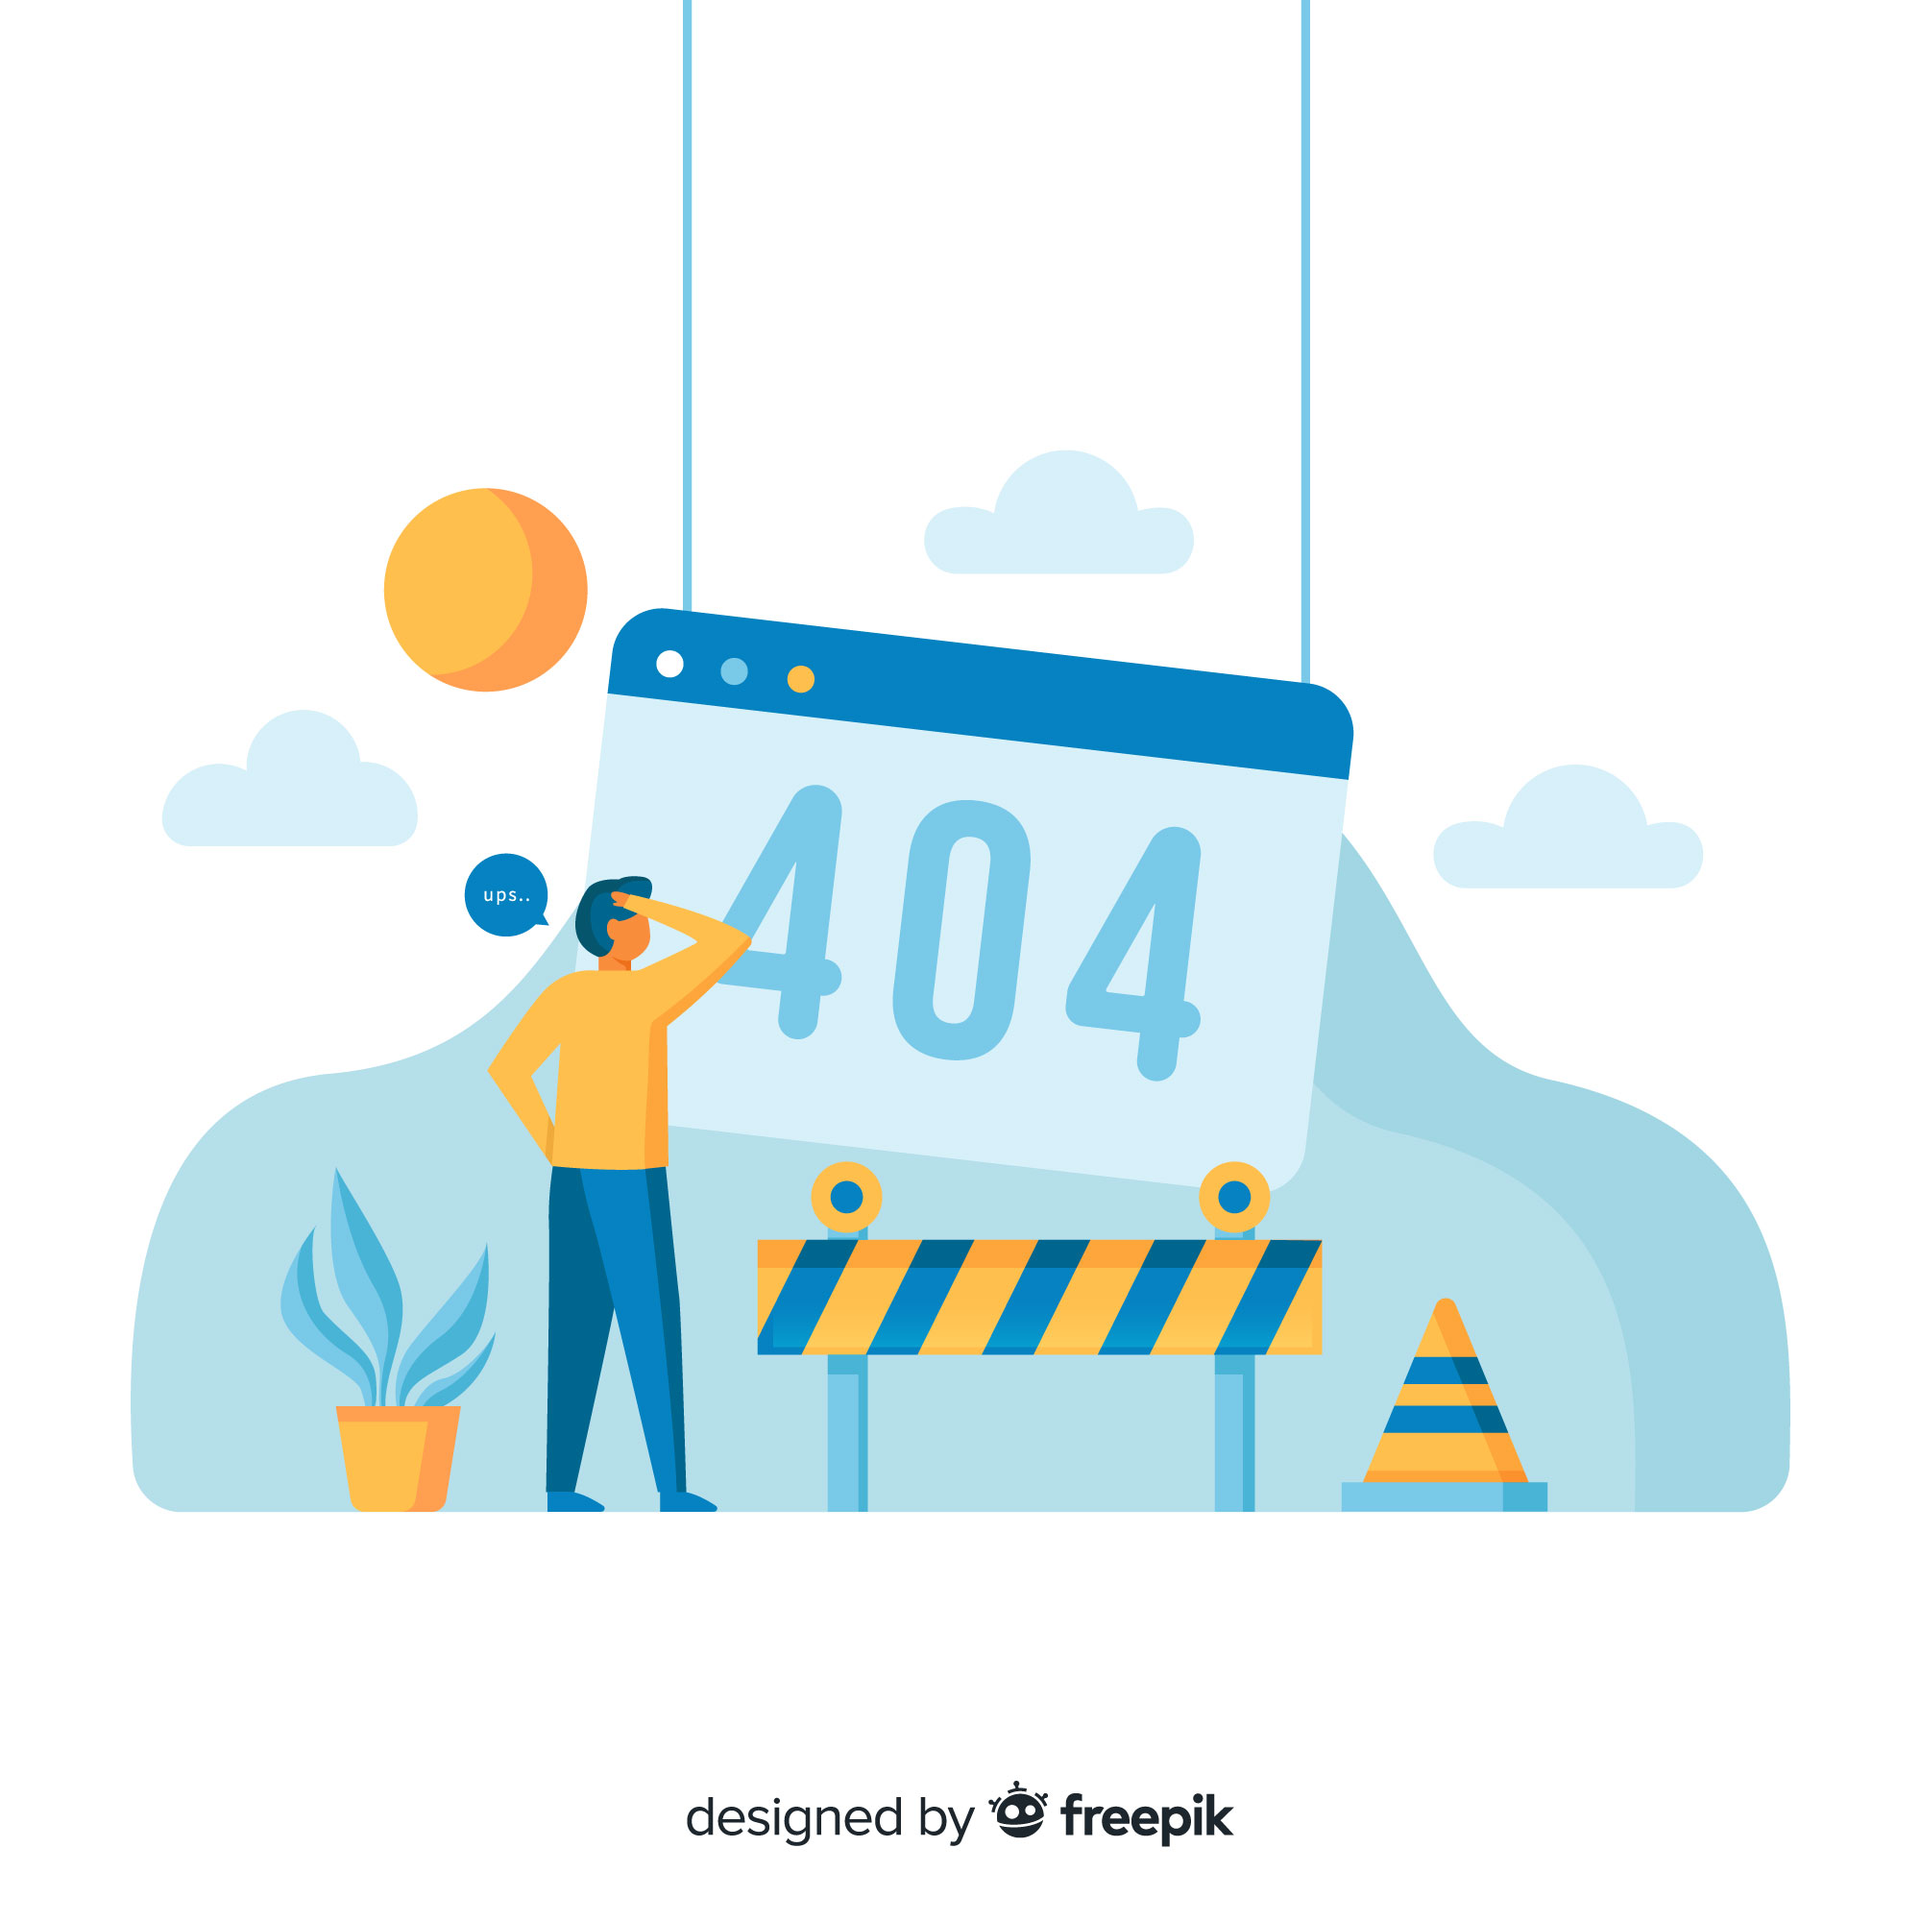
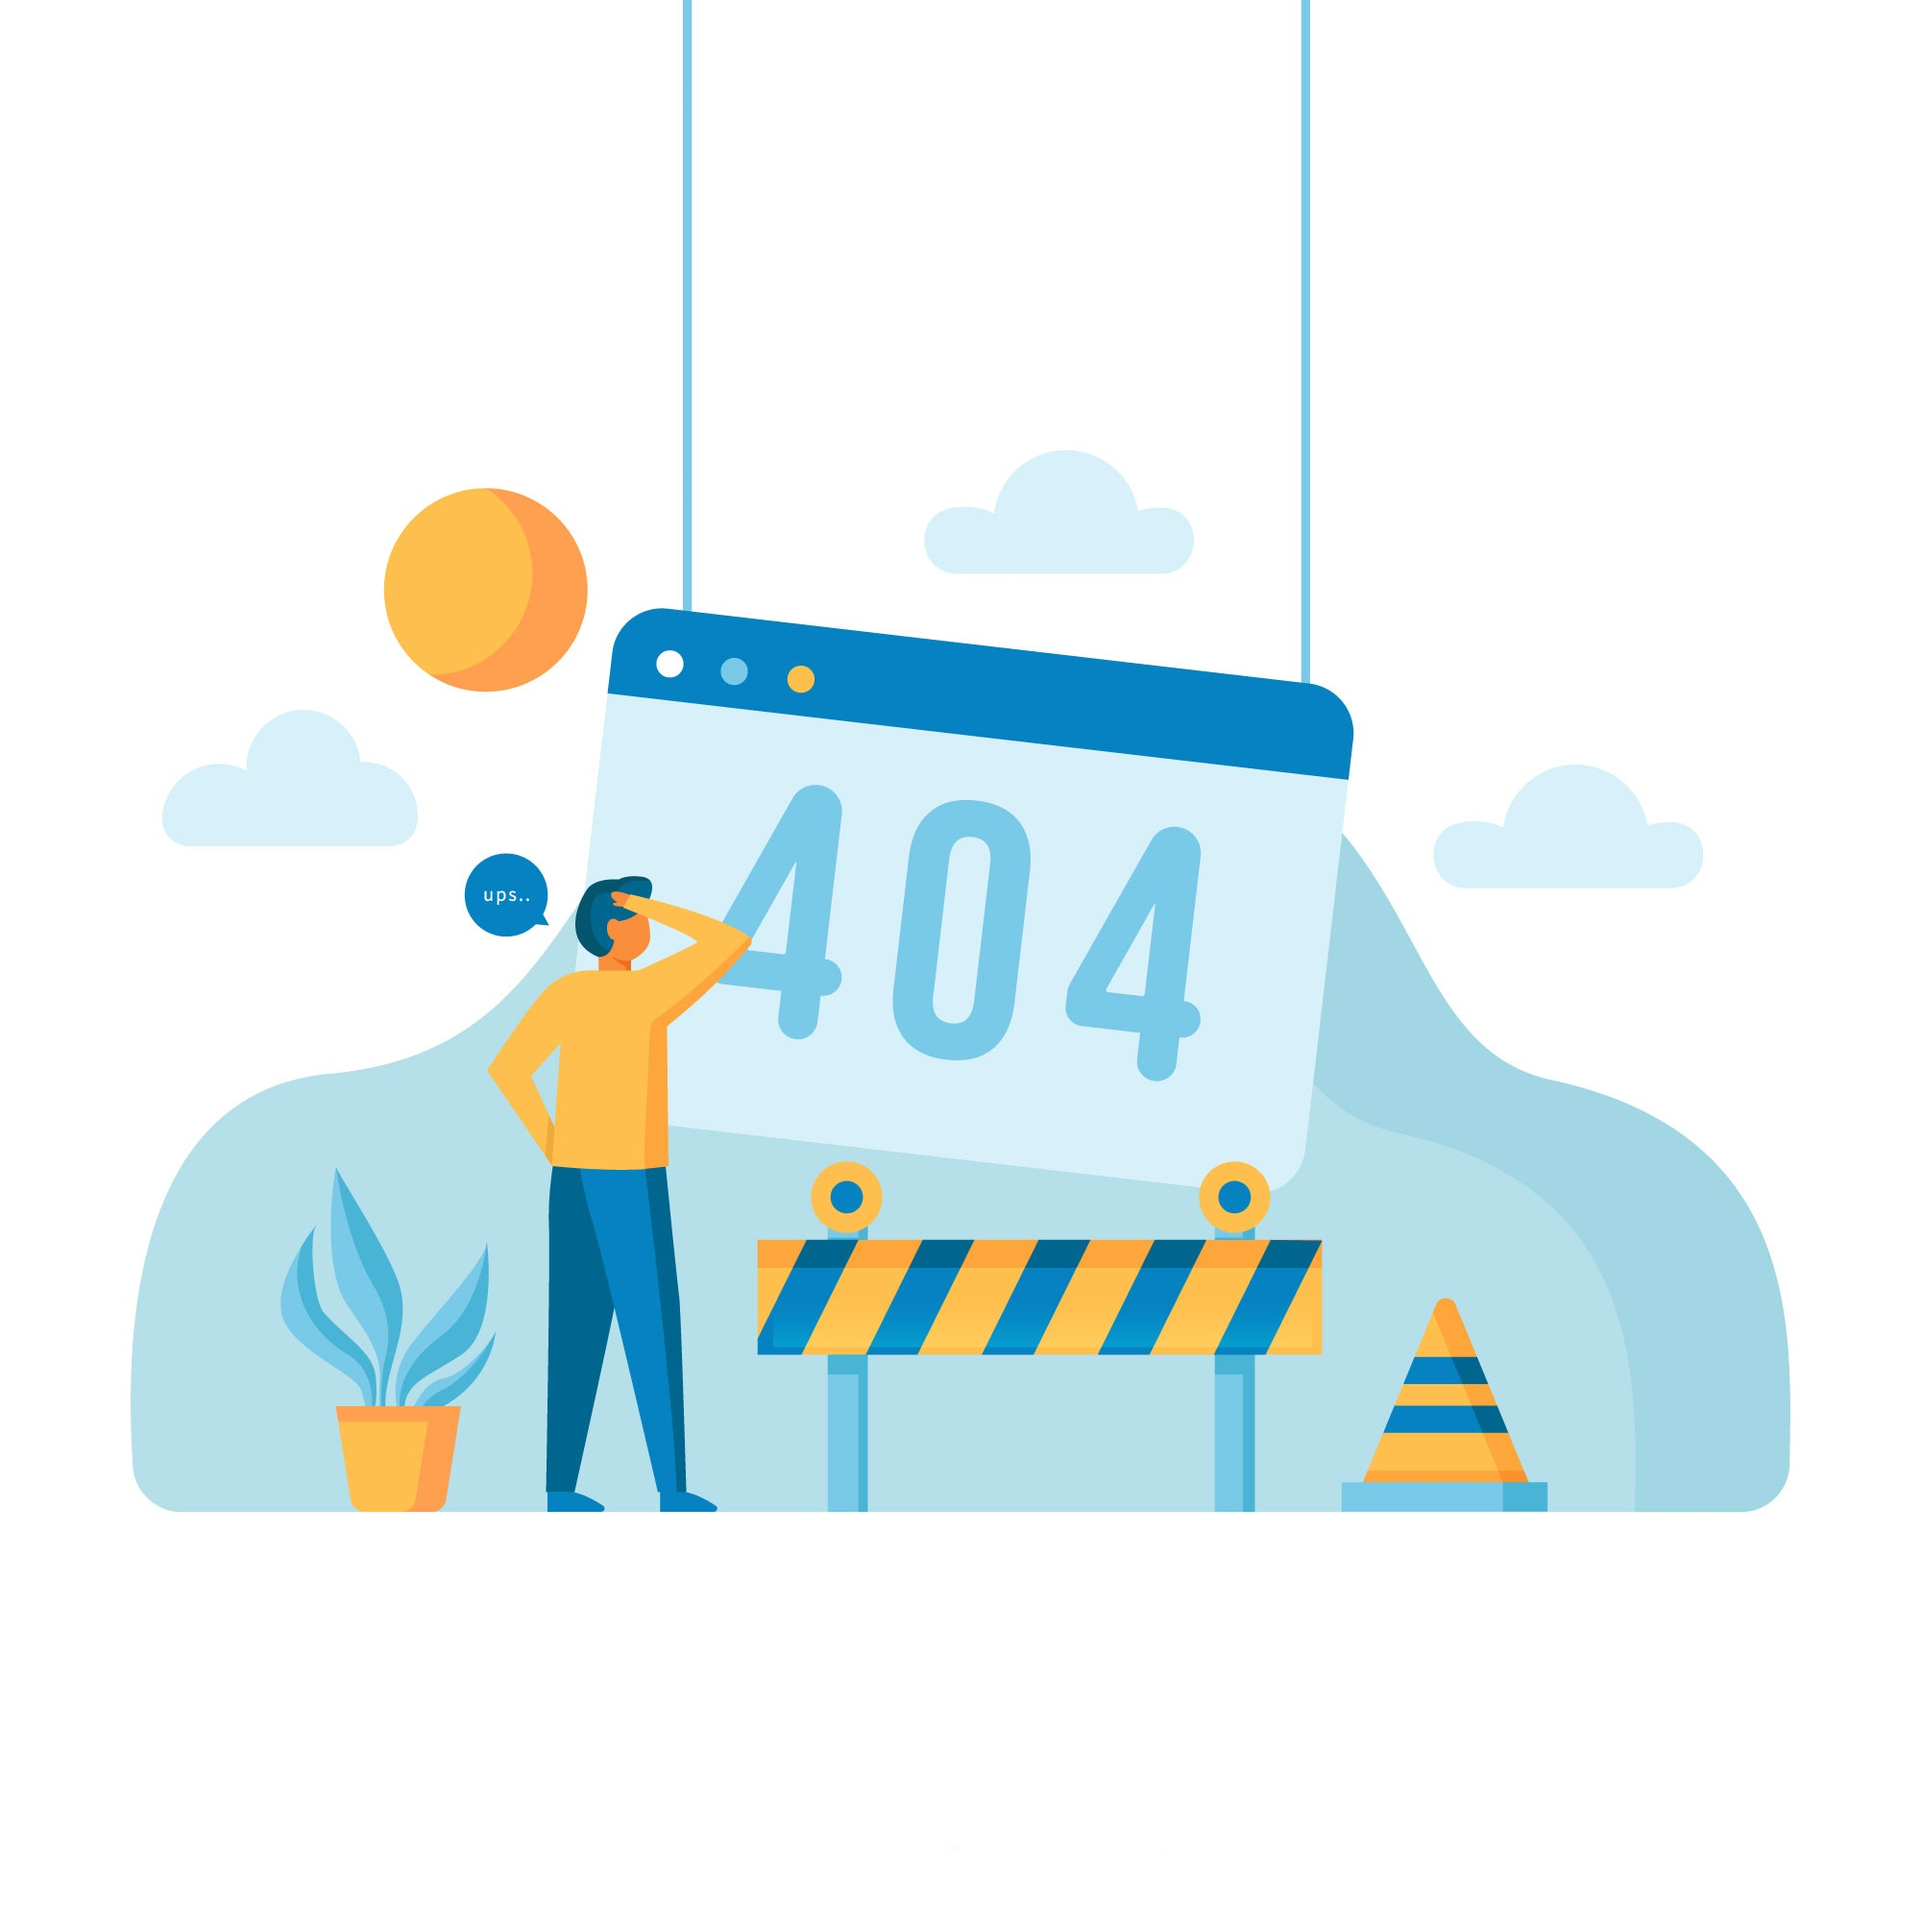
fixed bugs

Changed region(s): [[0.341, 0.93, 0.651, 0.961], [0.62, 0.62, 0.651, 0.651]]

diff --git a/templates/errorpage.html b/templates/errorpage.html
@@ -22,7 +22,7 @@
 <!--Navbar-->
 <nav class="navbar navbar-expand-lg navbar-light white sticky-top">
     <!-- Navbar brand -->
-    <a class="navbar-brand" href="/"><i class="fab fa-youtube"> Malicious Url Analysis</i></a>
+    <a class="navbar-brand" href="/"><i class="fad fa-sack-dollar"  style="margin-right:1 rem;"></i>Malicious Url Analysis</a>
 
     <!-- Collapse button -->
     <button class="navbar-toggler" type="button" data-toggle="collapse" data-target="#basicExampleNav"
@@ -55,9 +55,10 @@
 <div class="container-fluid" style="margin-top: 1rem;">
     <div class="row">
         <div class="col-md-6" style="margin: 0 auto;">
-            <img src="/static/error.jpg" class="img-fluid">     
+            <img src="/static/notfound.jpg" class="img-fluid">     
         </div>
     </div>
+</br></br>
     <div class="row" style="margin-bottom: 1rem;">
         <a href="/" class="btn btn-primary" style="margin: 0 auto;display: block;">Home</a>
     </div>
@@ -65,10 +66,9 @@
 
     <!-- Copyright -->
     <div class="footer-copyright text-center py-3">
-        <a href="https://mdbootstrap.com/" style="color: white;font-weight: bold;">MD Bootstrap</a>
+        <a href="https://mdbootstrap.com/" style="color: white;font-weight: bold;"></a>
         <br />
-        <a href="http://www.freepik.com" style="color: white;font-weight: bold;">Designed by
-            pikisuperstar / Freepik</a>
+        <a href="http://www.freepik.com" style="color: white;font-weight: bold;"></a>
     </div>
     <!-- Copyright -->
 

diff --git a/templates/about.html b/templates/about.html
@@ -143,10 +143,9 @@
 
         <!-- Copyright -->
         <div class="footer-copyright text-center py-3">
-            <a href="https://mdbootstrap.com/" style="color: white;font-weight: bold;">MD Bootstrap</a>
+            <a href="https://mdbootstrap.com/" style="color: white;font-weight: bold;"></a>
             <br />
-            <a href="http://www.freepik.com" style="color: white;font-weight: bold;">Designed by
-                pikisuperstar / Freepik</a>
+            <a href="http://www.freepik.com" style="color: white;font-weight: bold;"></a>
         </div>
         <!-- Copyright -->
 

diff --git a/templates/home.html b/templates/home.html
@@ -144,10 +144,9 @@
 
         <!-- Copyright -->
         <div class="footer-copyright text-center py-3">
-            <a href="https://mdbootstrap.com/" style="color: white;font-weight: bold;">MD Bootstrap</a>
+            <a href="https://mdbootstrap.com/" style="color: white;font-weight: bold;"></a>
             <br />
-            <a href="http://www.freepik.com" style="color: white;font-weight: bold;">Designed by
-                pikisuperstar / Freepik</a>
+            <a href="http://www.freepik.com" style="color: white;font-weight: bold;"></a>
         </div>
         <!-- Copyright -->
 

diff --git a/templates/result.html b/templates/result.html
@@ -172,10 +172,9 @@
 
         <!-- Copyright -->
         <div class="footer-copyright text-center py-3">
-            <a href="https://mdbootstrap.com/" style="color: white;font-weight: bold;">MD Bootstrap</a>
+            <a href="https://mdbootstrap.com/" style="color: white;font-weight: bold;"></a>
             <br />
-            <a href="http://www.freepik.com" style="color: white;font-weight: bold;">Designed by
-                pikisuperstar / Freepik</a>
+            <a href="http://www.freepik.com" style="color: white;font-weight: bold;"></a>
         </div>
         <!-- Copyright -->
 

diff --git a/aut2/views.py b/aut2/views.py
@@ -44,111 +44,114 @@ def home(request):
 def result(request):
     #nm=request.GET['url']
     text=request.GET['url']
-    if len(text)<=9:
-        return render(request,'errorpage.html')
-    aburl=-1
-    digits="0123456789"
-    if text[8] in digits:
-        oneval=-1
-    else:
-        oneval=1    
-    if len(text)>170:
-        secval=-1
-    else:
-        secval=1  
-    if "@" in text:
-        thirdval=-1
-    else:
-        thirdval=1    
-    k=text.count("//")          
-    if k>1:
-        fourthval=-1
-    else:
-        fourthval=1
-        
-    if "-" in text:
-        fifthval=-1
-    else:
-        fifthval=1         
-    if "https" in text:
-        sixthval=1
-    else:
-        sixthval=-1
-    temp=text
-    temp=temp[6:]
-    k1=temp.count("https")
+    if text.startswith('https://') or text.startswith('http://'):
 
-    if k1 >=1:
-        seventhval=-1
-    else:
-        seventhval=1
-    if "about:blank" in text:
-        eighthval=-1
-    else:
-        eighthval=1
-    if "mail()" or "mailto:" in text:
-        ninthval=-1
-    else:
-        ninthval=1
-    re=text.count("//")          
-    if re>3:
-        tenthval=-1
-    else:
-        tenthval=1    
-
-    import whois
-    from datetime import datetime
-
-    url=text
-
-    try:
-        res=whois.whois(url)
-        try:
-            a=res['creation_date'][0]
-            b=datetime.now()
-            c=b-a
-            d=c.days
-        except:
-            a=res['creation_date']
-            b=datetime.now()
-            c=b-a
-            d=c.days
-        if d>365:
-            eleventhval=1
+        if len(text)<=9:
+            return render(request,'errorpage.html')
+        aburl=-1
+        digits="0123456789"
+        if text[8] in digits:
+            oneval=-1
         else:
-            eleventhval=-1
-    except:
-        aburl=1
-        eleventhval=-1   
+            oneval=1    
+        if len(text)>170:
+            secval=-1
+        else:
+            secval=1  
+        if "@" in text:
+            thirdval=-1
+        else:
+            thirdval=1    
+        k=text.count("//")          
+        if k>1:
+            fourthval=-1
+        else:
+            fourthval=1
+            
+        if "-" in text:
+            fifthval=-1
+        else:
+            fifthval=1         
+        if "https" in text:
+            sixthval=1
+        else:
+            sixthval=-1
+        temp=text
+        temp=temp[6:]
+        k1=temp.count("https")
 
-    if aburl==1:
-        twelthval=-1
+        if k1 >=1:
+            seventhval=-1
+        else:
+            seventhval=1
+        if "about:blank" in text:
+            eighthval=-1
+        else:
+            eighthval=1
+        if "mail()" or "mailto:" in text:
+            ninthval=-1
+        else:
+            ninthval=1
+        re=text.count("//")          
+        if re>3:
+            tenthval=-1
+        else:
+            tenthval=1    
+
+        import whois
+        from datetime import datetime
+
+        url=text
+
+        try:
+            res=whois.whois(url)
+            try:
+                a=res['creation_date'][0]
+                b=datetime.now()
+                c=b-a
+                d=c.days
+            except:
+                a=res['creation_date']
+                b=datetime.now()
+                c=b-a
+                d=c.days
+            if d>365:
+                eleventhval=1
+            else:
+                eleventhval=-1
+        except:
+            aburl=1
+            eleventhval=-1   
+
+        if aburl==1:
+            twelthval=-1
+        else:
+            twelthval=1    
+
+
+
+
+        filename = 'phish_trainedv0.sav'
+
+        loaded_model = joblib.load(filename)
+
+        arg=loaded_model.predict(([[oneval,secval,thirdval,fourthval,fifthval,sixthval,seventhval,eighthval,ninthval,tenthval,eleventhval,twelthval]]))
+        print (arg[0])
+        if arg[0]==1:
+            te="Legitimate"
+        else:
+            te="Malicious"  
+        if arg[0] == 1:
+            mal = True
+        else:
+            mal = False      
+        from json.encoder import JSONEncoder
+        final_entity = { "predicted_argument": [int(arg[0])]}
+        # directly called encode method of JSON
+        print (JSONEncoder().encode(final_entity)) 
+            
+        return render(request,'result.html',{'result':'Real-time analysis successfull','f2':te,'mal': mal,'text':text})
     else:
-        twelthval=1    
-
-
-
-
-    filename = 'phish_trainedv0.sav'
-
-    loaded_model = joblib.load(filename)
-
-    arg=loaded_model.predict(([[oneval,secval,thirdval,fourthval,fifthval,sixthval,seventhval,eighthval,ninthval,tenthval,eleventhval,twelthval]]))
-    print (arg[0])
-    if arg[0]==1:
-        te="Legitimate"
-    else:
-        te="Malicious"  
-    if arg[0] == 1:
-        mal = True
-    else:
-        mal = False      
-    from json.encoder import JSONEncoder
-    final_entity = { "predicted_argument": [int(arg[0])]}
-    # directly called encode method of JSON
-    print (JSONEncoder().encode(final_entity)) 
-        
-    return render(request,'result.html',{'result':'Real-time analysis successfull','f2':te,'mal': mal,'text':text})
-
+        return render(request,'errorpage.html')  
 def about(request):
     return render(request,'about.html')    
